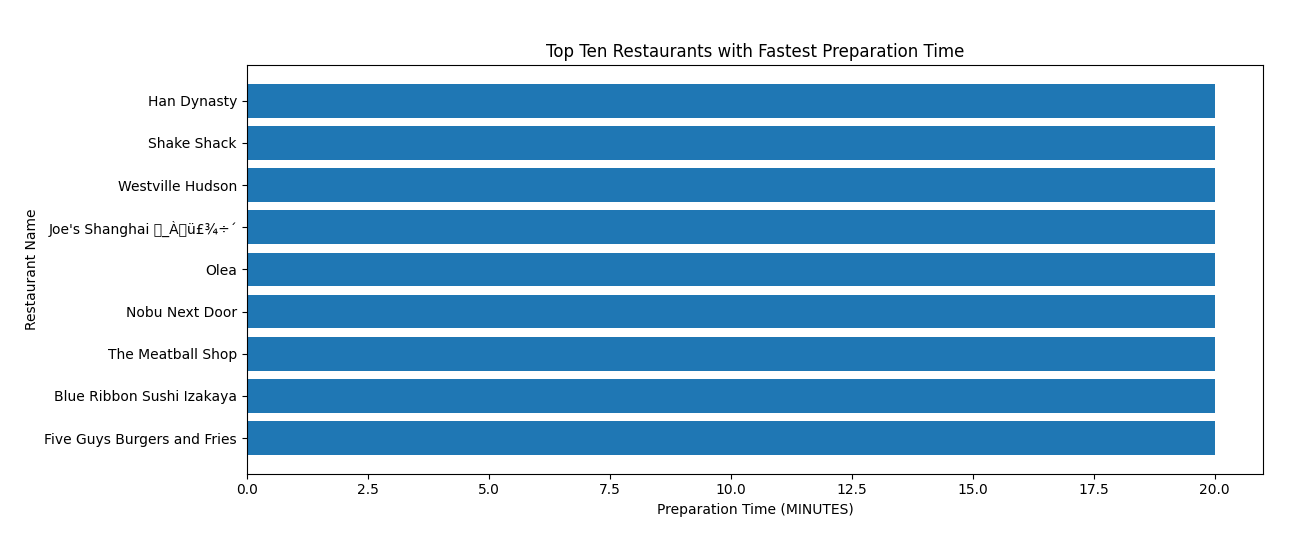
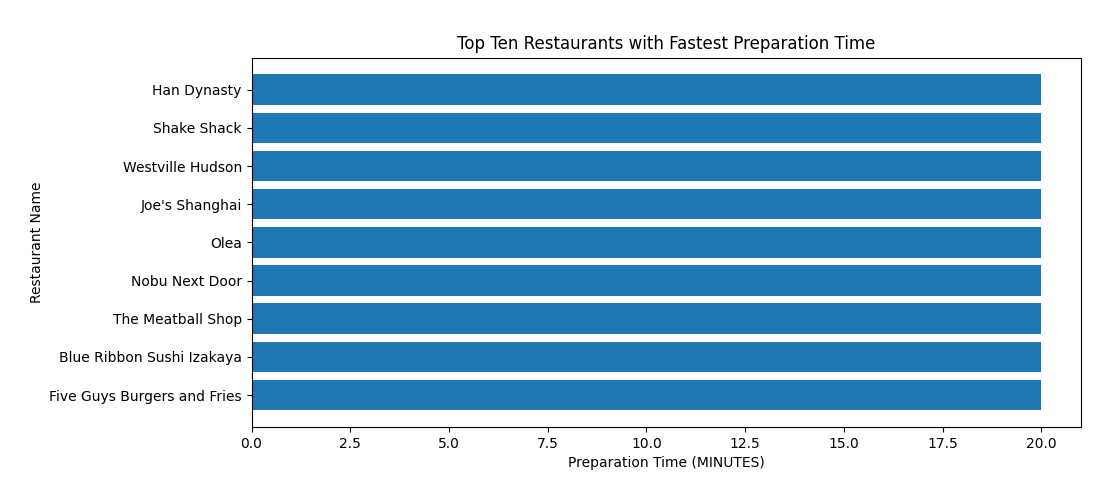
menambahkan readme (1)

diff --git a/README.md b/README.md
@@ -2,7 +2,7 @@
 Proyek ini merupakan bagian dari pengembangan pribadi saya dalam memahami workflow analisis data. Pada proyek ini saya menggunakan bahasa pemrograman Python dengan beberapa library seperti Pandas, NumPy, Seaborn, dan Matplotlib.
 
 ## Keterangan Data
- Data food_order.csv saya ambil dari website Kaggle pada data tersebut terdapat 9 kolom dan 1898 baris.
+ Data [food_order.csv](food_order.csv) saya ambil dari website Kaggle pada data tersebut terdapat 9 kolom dan 1898 baris.
 
  Berikut adalah penjelasan untuk setiap kolom pada data ini:
  | Kolom                | Deskripsi                 |
@@ -12,10 +12,69 @@ Proyek ini merupakan bagian dari pengembangan pribadi saya dalam memahami workfl
 | restaurant_name       | Nama Restoran             |
 | cuisine_type          | Tipe Masakan              |
 | cost_of_the_order	    | Biaya Pesanan             |
-| day_of_the_week	    | Hari Dalam Mingguang      |
-| rating	            | Penilaian                 |
+| day_of_the_week	    | Hari Dalam Minggu         |
+| rating	            | Penilaian (1-5)           |
 | food_preparation_time	| Waktu Makanan Disiapkan   |
 | delivery_time         | Waktu Makanan Diantarkan  |
 
 ## Pengecekan Data
-Langkah awal yang saya lakukan pada proses ini adalah melakukan pengecekan data, dimana saya melakukan pengecekan pada setiap kolom pada dataframe.
+Langkah awal yang saya lakukan pada proses ini adalah melakukan pengecekan data, dimana saya melakukan pengecekan pada kolom di dataframe. Berikut kode yang digunakan:
+
+### Cek Ringkasan
+```
+# Summary
+df.info() 
+```
+![summary](pic/summary.png)
+Dari gambar diatas, setelah dilakukan pengecekan untuk setiap kolom pada dataframe memiliki jumlah data yang bukan null sebanyak 1898 data, dan untuk tipe datanya terbagi menjadi 3 (int, float dan object).
+
+```
+#Check null values
+print(df.isnull().sum())
+```
+![nullvalues](pic/check%20null%20value%20(2).png)
+Dari gambar diatas, setelah dilakukan pengecekan tidak terdapat nilai null pada setiap kolom di dataframe.
+
+### Cek Kolom
+"Kolom restaurant_name"
+```
+#Check restaurant name
+print(df.restaurant_name.unique())
+```
+![restaurantname](pic/restaurant%20name%20(3).png)
+Dari gambar diatas, terdapat 178 Nama restoran yang berada pada kolom restaurant_name dimana beberapa dari nama restoran tersebut terdapat special character. 
+
+Hal yang saya lakukan pertama adalah memeriksa nama-nama restoran yang menggunakan special character menggunakan kode berikut:
+```
+#menentukan spesial karakter
+def contains_special_characters(text):
+    pattern= r'[¤¾Ñ¼©@#$%^*()_+{}\[\]:;<>,?~\\]'
+    return bool(re.search(pattern, text))
+
+#mengecek restoran yang menggunakan spesial karakter
+weird_restaurant = df[df['restaurant_name'].apply(contains_special_characters)]
+print(weird_restaurant['restaurant_name'].unique())
+```
+![weird_name](pic/restaurant%20name%20mistake%20(4).png)
+Terdapat 6 restoran yang menggunakan special character.
+
+Selanjutnya setelah sudah menemukan restoran apa saja yang menggunakan special character, saya melakukan perubahan pada nama-nama restoran tersebut dengan kode berikut:
+```
+#Mengganti nama restoran lama dengan yang baru (Tanpa Special Character)
+old_name = ['Big Wong Restaurant \x8c_¤¾Ñ¼','Empanada Mama (closed)',
+            'Chipotle Mexican Grill $1.99 Delivery', "Joe's Shanghai \x8e_À\x8eü£¾÷´",
+            'CafÌ© China', 'Dirty Bird To Go (archived)']
+
+new_name = ['Big Wong Restaurant', 'Empanada Mama', 'Chipotle Mexican Grill', "Joe's Shanghai", 'Cafe China', 'Dirty Bird To Go']
+#print(new_name)
+
+df['restaurant_name'] = df['restaurant_name'].replace(dict(zip(old_name, new_name)))
+```
+Berikut hasil setelah dilakukan pergantian nama restoran
+![new_name](pic/restaurant%20name%20mistake%20new%20name%20(5).png)
+
+"Kolom cuisine_type"
+```
+df.cuisine_type.unique()
+```
+![cuisinetype](pic/cek%20cuisine%20(6).png)
